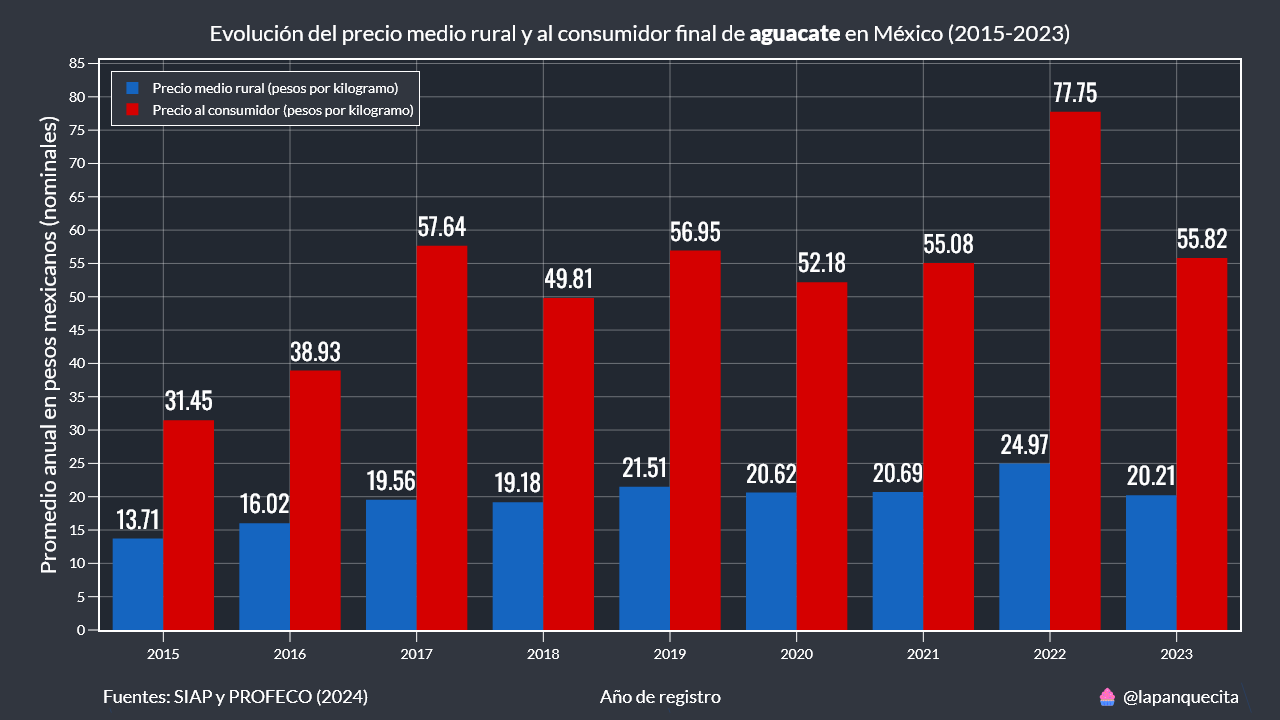
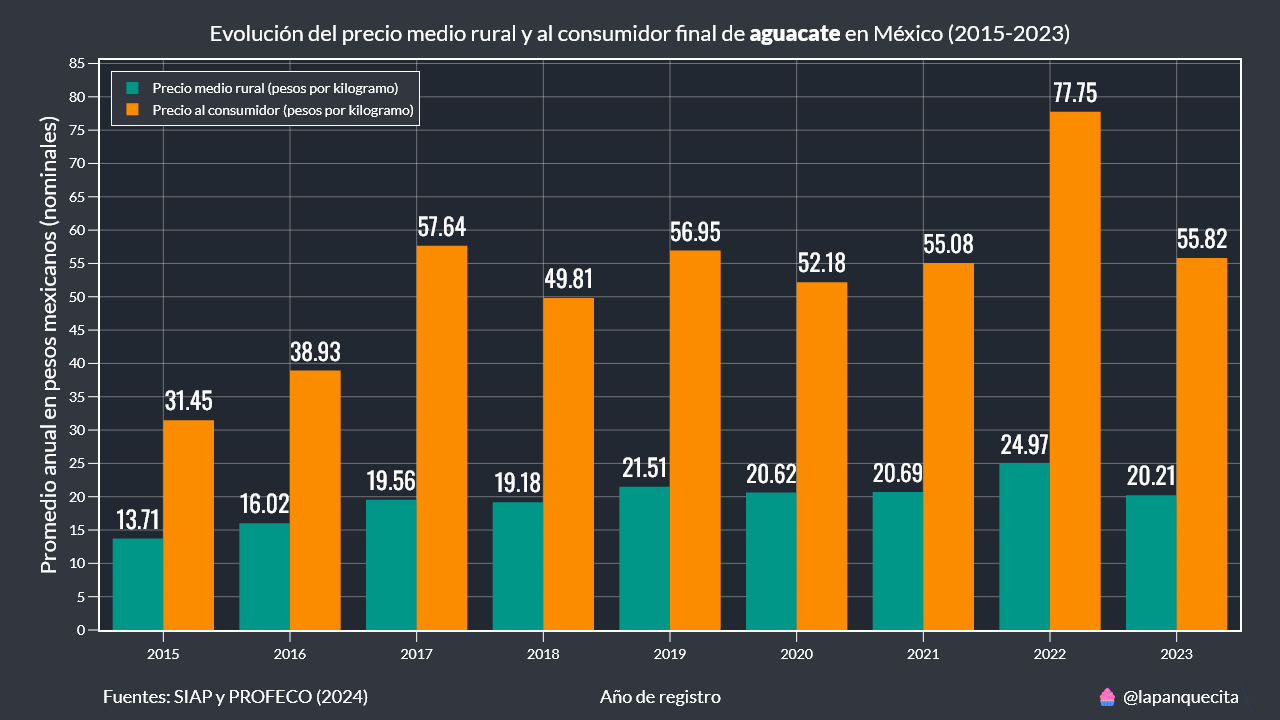
Actualización

Changed region(s): [[0.0625, 0.1528, 0.9688, 0.8861], [0.0938, 0.1222, 0.125, 0.1528]]

diff --git a/aguacate_graficas.py b/aguacate_graficas.py
@@ -7,6 +7,7 @@ from datetime import datetime
 import numpy as np
 import pandas as pd
 import plotly.graph_objects as go
+from statsmodels.tsa.seasonal import STL
 
 
 PAPER_BGCOLOR = "#31363F"
@@ -524,8 +525,8 @@ def tendencia_mensual():
     # Convertimos de miles de dólares a millones de dólares.
     df /= 1000
 
-    # Calculamos el promedio móvil a 12 periodos.
-    df["rolling"] = df["USD_miles"].rolling(12).mean()
+    # Calculamos la tendencia a 12 periodos.
+    df["tendencia"] = STL(df["USD_miles"]).fit().trend
 
     # Seleccionamos los últimos 102 meses.
     df = df.tail(102)
@@ -563,9 +564,9 @@ def tendencia_mensual():
     fig.add_trace(
         go.Scatter(
             x=df.index,
-            y=df["rolling"],
+            y=df["tendencia"],
             mode="lines",
-            name="Promedio móvil",
+            name="Tendencia",
             line_width=3,
             line_color="#ffe57f",
         )
@@ -705,7 +706,7 @@ def precio_medio_rural():
             y=df["pmr"],
             text=df["pmr"],
             texttemplate="%{text:,.2f}",
-            marker_color="#1565c0",
+            marker_color="#009688",
             name="Precio medio rural (pesos por kilogramo)",
             marker_line_width=0,
             textposition="outside",
@@ -721,7 +722,7 @@ def precio_medio_rural():
             y=df["precio"],
             text=df["precio"],
             texttemplate="%{text:,.2f}",
-            marker_color="#d50000",
+            marker_color="#fb8c00",
             name="Precio al consumidor (pesos por kilogramo)",
             marker_line_width=0,
             textposition="outside",

diff --git a/README.md b/README.md
@@ -47,7 +47,7 @@ Si crees que este porcentaje es alto, espera a ver el mapa del 2004.
 
 En 2004, Michoacán fue responsable del 87.51% de la producción de aguacate en el país.
 
-Al comparar ambos mapas, se puede observar que otras entidades también han entrado en esta lucraiva industria.
+Al comparar ambos mapas, se puede observar que otras entidades también han entrado en esta lucrativa industria.
 
 ![Municipal 2023](./imgs/municipios_2023.png)
 
